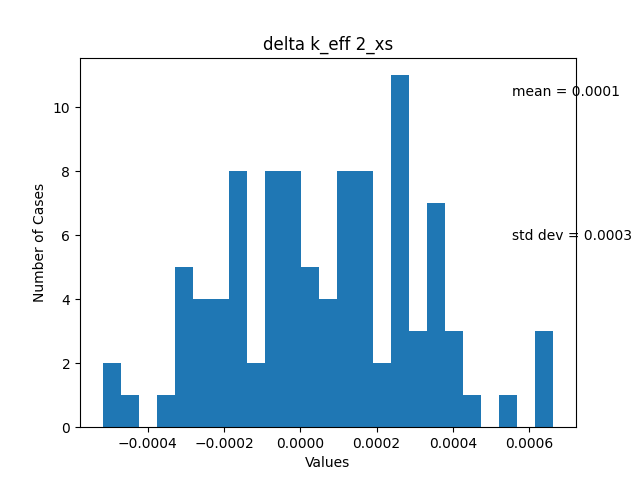
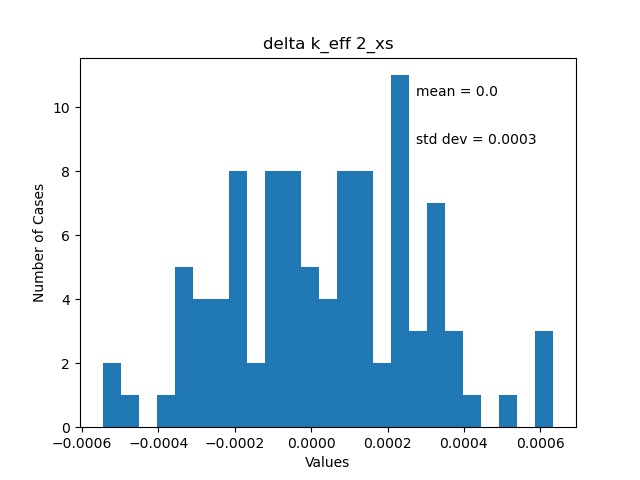
bilder

diff --git a/runall_new.py b/runall_new.py
@@ -247,8 +247,8 @@ def main():
         plt.title(f'delta k_eff {reaction_ind}_xs')
         plt.xlabel('Values')
         plt.ylabel('Number of Cases')
-        plt.figtext(.8, .8, f"mean = {round(mean,4)}")
-        plt.figtext(.8, .5, f"std dev = {round(std_dev,4)}")
+        plt.figtext(.65, .8, f"mean = {round(mean,4)}")
+        plt.figtext(.65, .7, f"std dev = {round(std_dev,4)}")
 
         plt.savefig(f'result_plots/figure_{reaction_ind}.png')
         plt.clf()
